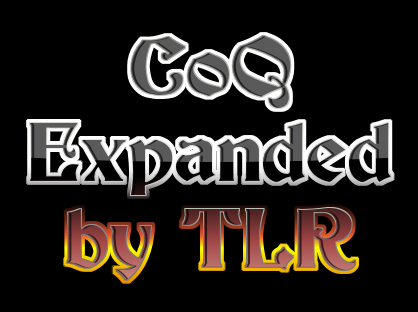
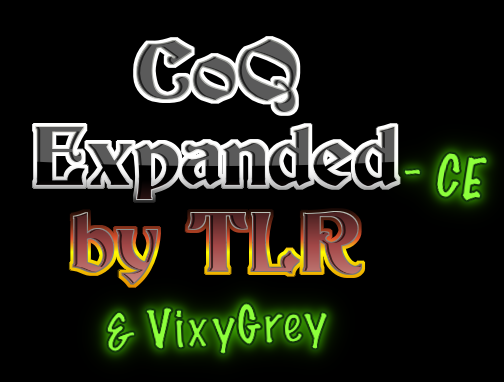
chore(workshop): mark the preview image as the Community Edition (#61)
* chore(workshop): mark the preview image as the Community Edition (closes #60)

`mod/preview.png` was still Mura's original *CoQ / Expanded / by TLR* logo. Every other
piece of the fork's metadata already identifies it — `manifest.json` says "Community
Edition" and "maintained by VixyGrey", and the Workshop description says so at length —
but the preview image is the only one of those a subscriber sees in a search listing,
and it gave them no way to tell this item from the original.

Two additions, in a venomous green:

- `- CE` following "Expanded"
- `& VixyGrey` on a new line under "by TLR"

Both are set in MarkerFelt, deliberately unlike the chrome serif of the original
lettering, and both are tilted slightly off-axis. That contrast is the point rather than
a shortcut: charter rule 3 makes crediting Mura permanent and non-negotiable, so the
fork's marks are layered *on top of* their artwork instead of restyling it. Mura's
lettering is untouched, unmoved, and still the dominant element; "by TLR" still reads
first, with "& VixyGrey" plainly subordinate beneath it.

The canvas grows 418x312 -> 504x382 to make room; the original logo is composited in
unmodified at +6+4. Verified legible down to a 120px-wide thumbnail, which is the
constraint `docs/STYLEGUIDE.md` §7.3 actually cares about. 72 KB, well under Steam's
1 MB limit.

`docs/STYLEGUIDE.md` §7.3 is updated for the new dimensions, and gains the rule that
[…]

diff --git a/CHANGELOG.md b/CHANGELOG.md
@@ -37,6 +37,14 @@ Nothing has been released yet. Everything below lands in the fork's first Worksh
   states plainly that a new character is required.
   ([#2](https://github.com/vixygrey/qud-expanded-community-edition/issues/2))
 
+- **The Workshop preview image now marks this as the Community Edition.** It was Mura's original
+  *CoQ / Expanded / by TLR* logo, which gave a subscriber no way to tell the fork from the
+  original in a search listing. A green `- CE` now follows "Expanded", and `& VixyGrey` sits under
+  "by TLR". Both are in a marker face deliberately unlike Mura's chrome lettering, so they read as
+  additions rather than as part of the original logo — Mura's artwork is untouched and still the
+  dominant element, per charter rule 3.
+  ([#60](https://github.com/vixygrey/qud-expanded-community-edition/issues/60))
+
 - **The chip slot is now `Chip Interface`** (was `Chipset Interface`). The slot holds 108 chips
   against 36 chipsets, so it was named after the minority item; a chipset is a set of chips, so
   the new name is accurate for the whole catalogue. `Psionic Interface` — the name Mura's
@@ -58,6 +66,15 @@ Nothing has been released yet. Everything below lands in the fork's first Worksh
   ([#17](https://github.com/vixygrey/qud-expanded-community-edition/issues/17))
 
 ### Added
+
+- **(internal)** `tools/build_preview.sh` regenerates the Workshop preview image from
+  `tools/preview-base.png` — Mura's original logo, kept unmodified. The sizes, angles and green
+  used for the fork's marks now live in a script instead of in whoever last opened an image
+  editor, so the next title or credits change does not start by guessing at them. It needs
+  ImageMagick and a macOS font, so unlike the validators it is not part of the gate and does not
+  run in CI; `mod/preview.png` stays committed and no contributor needs the script to build or
+  play the mod.
+  ([#60](https://github.com/vixygrey/qud-expanded-community-edition/issues/60))
 
 - **(internal)** Charter rule 5 amended: the mod's C# may now hold state and adjust already-loaded
   game data, which is past the "36 inert one-line classes" the rule previously named as its

diff --git a/README.md b/README.md
@@ -111,6 +111,21 @@ That one compares the mod against your installed copy of the game and catches th
 modes that are otherwise completely silent: a `Load="Merge"` whose vanilla target no longer
 exists, and the custom anatomies drifting from vanilla's `Humanoid`.
 
+### Regenerating the Workshop preview image
+
+`mod/preview.png` is committed, so you only need this if you are changing it:
+
+```bash
+tools/build_preview.sh
+```
+
+It composites the fork's green `- CE` and `& VixyGrey` marks onto `tools/preview-base.png` —
+Mura's original logo, kept unmodified and byte-identical to `git show upstream-2.2:preview.png`.
+Unlike the validators it needs ImageMagick and a macOS system font, so it is not part of the
+validation gate and does not run in CI. Sizes, angles and colours live in the script rather than
+in someone's image editor; see the header, and `docs/STYLEGUIDE.md` §7.3 for why the fork's marks
+deliberately don't match Mura's lettering.
+
 ### Optional local hooks
 
 ```bash
@@ -132,7 +147,7 @@ easily lost.
 ```
 mod/     the shipped mod — the only directory uploaded to the Workshop
 docs/    FEATURES, PERMISSION, STYLEGUIDE, and Mura's original documents
-tools/   validation and drift checking
+tools/   validation, drift checking, and the preview-image generator
 ```
 
 `git diff upstream-2.2` shows everything this fork has changed since Mura's 2.2 release. Add

diff --git a/docs/STYLEGUIDE.md b/docs/STYLEGUIDE.md
@@ -302,9 +302,13 @@ save-baked identifiers changed during the fork.
 
 ### 7.3 `preview.png`
 
-- PNG, **under 1 MB** (Steam limit). The current file is 418×312 and 60 KB.
+- PNG, **under 1 MB** (Steam limit). The current file is 504×382 and 71 KB.
 - Must be readable as a thumbnail — it is displayed small.
 - Path declared in `workshop.json` `ImagePath`.
+- **Mura's original lettering stays untouched and stays dominant.** The fork's own marks — the
+  green `- CE` and `& VixyGrey` — are additions layered on top of it, deliberately in a different
+  face so they read as tacked on rather than as part of the original logo. Charter rule 3: the
+  maintainer credit sits *under* Mura's, it does not replace or restyle it.
 
 ### 7.4 Description content
 
